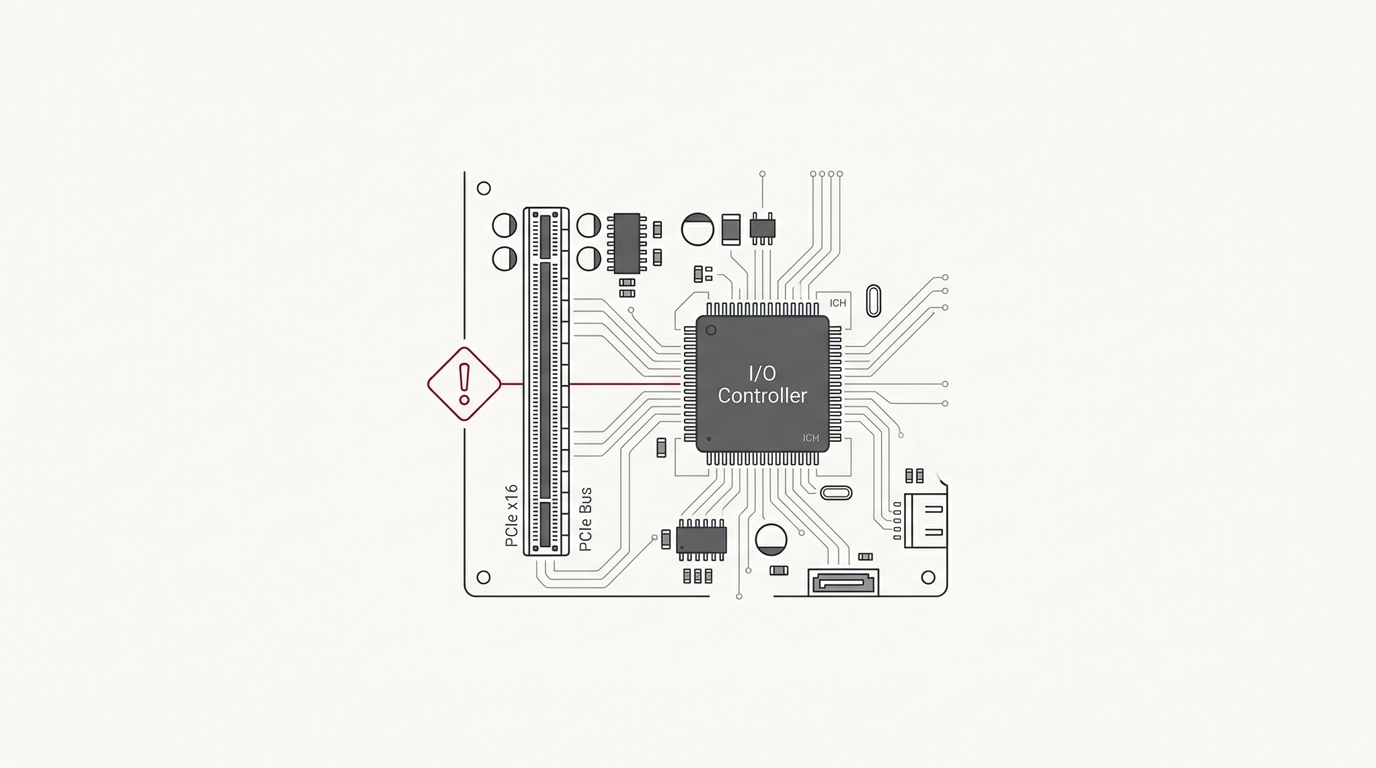
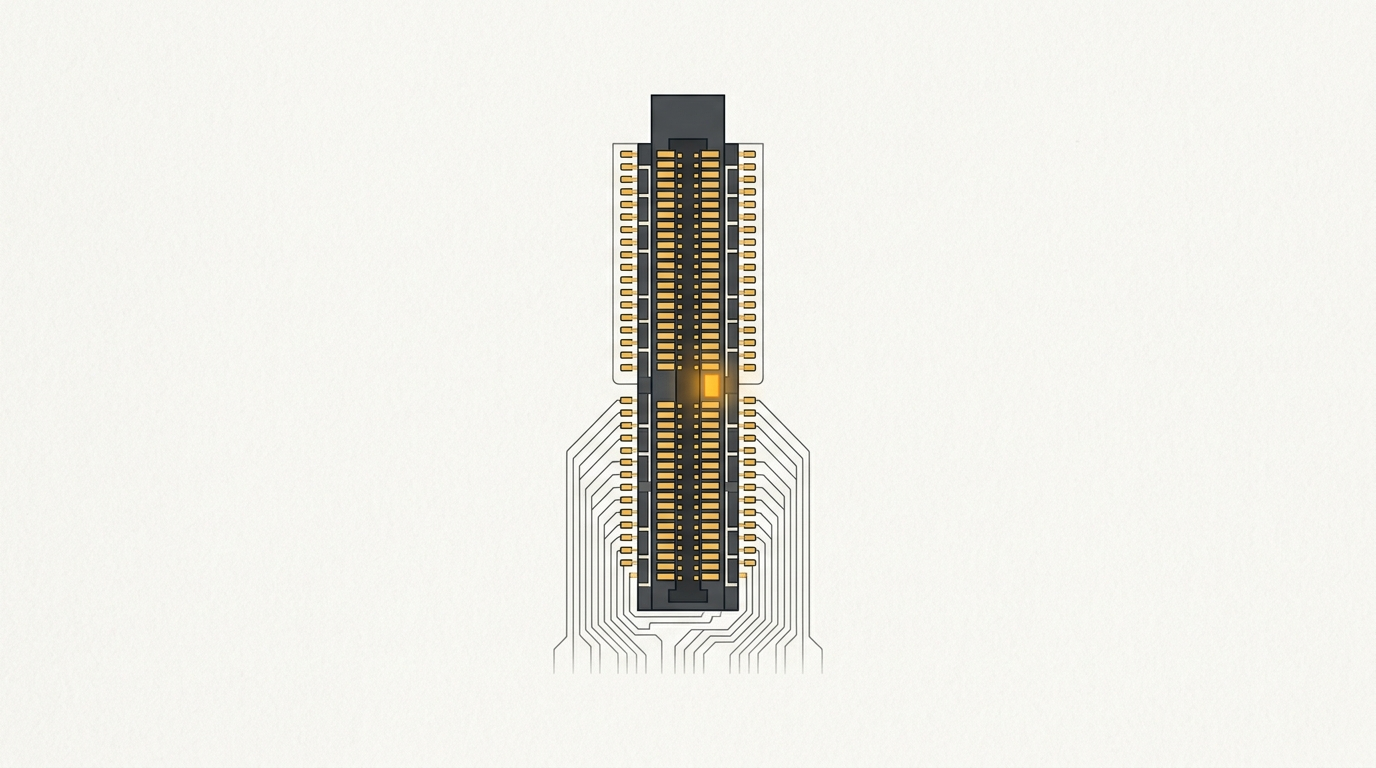
feat(seo): deploy cycle 7 KB5121003 inpoutx64 CTR optimization

Changed region(s): [[0.3125, 0.125, 0.6875, 0.875], [0.5938, 0.2188, 0.625, 0.3438]]

diff --git a/docs/antigravity/gsc_fresh_impact_alerts.md b/docs/antigravity/gsc_fresh_impact_alerts.md
@@ -1,6 +1,6 @@
 # 📈 Real-Time & Fresh GSC Click Impact Watchdog
 
-**Audit Timestamp:** `2026-09-13T02:02:07.819694+00:00`  
+**Audit Timestamp:** `2026-09-13T04:02:11.158871+00:00`  
 **Data State:** `all` (Real-Time Fresh + Finalized)  
 **Monitored Window:** 3-Day Rolling Window (`2026-09-11` to `2026-09-13` vs `2026-09-08` to `2026-09-10`)
 
@@ -10,9 +10,9 @@
 
 | Metric | 2026-09-11 (Prior) | 2026-09-12 (Latest) | Day Delta | Status |
 | :--- | :---: | :---: | :---: | :---: |
-| **Daily Clicks** | **33** | **20** | **-13** | 🔴 |
-| **Daily Impressions** | **5,357** | **2,035** | **-3322** | 🔴 |
-| **Daily CTR** | **0.62%** | **0.98%** | **+0.36%** | 🟢 |
+| **Daily Clicks** | **33** | **23** | **-10** | 🔴 |
+| **Daily Impressions** | **5,357** | **2,269** | **-3088** | 🔴 |
+| **Daily CTR** | **0.62%** | **1.01%** | **+0.39%** | 🟢 |
 | **Avg Position** | **6.7** | **6.5** | **+0.2** | 🟢 |
 
 ---
@@ -22,14 +22,14 @@
 
 | Article URL | 3d Clicks | 3d Imp | 3d CTR | Pos | Status |
 | :--- | :---: | :---: | :---: | :---: | :---: |
-| [`/blog/does-resetting-windows-remove-viruses-completely`](https://www.praveentechworld.com/blog/does-resetting-windows-remove-viruses-completely) | **0** (-11) | 718 | 0% | 5.5 | 🔴 Click Drop |
-| [`/blog/fix-dism-0x800f0915-efi-system-partition-too-small`](https://www.praveentechworld.com/blog/fix-dism-0x800f0915-efi-system-partition-too-small) | **2** (+2) | 120 | 1.67% | 6.9 | 🟢 Active & Gaining |
-| [`/blog/how-to-fix-audiodg-exe-high-cpu-windows-11`](https://www.praveentechworld.com/blog/how-to-fix-audiodg-exe-high-cpu-windows-11) | **1** (+0) | 116 | 0.86% | 7.5 | 🟡 Stable |
+| [`/blog/does-resetting-windows-remove-viruses-completely`](https://www.praveentechworld.com/blog/does-resetting-windows-remove-viruses-completely) | **0** (-11) | 758 | 0% | 5.5 | 🔴 Click Drop |
+| [`/blog/fix-dism-0x800f0915-efi-system-partition-too-small`](https://www.praveentechworld.com/blog/fix-dism-0x800f0915-efi-system-partition-too-small) | **2** (+2) | 122 | 1.64% | 6.9 | 🟢 Active & Gaining |
+| [`/blog/how-to-fix-audiodg-exe-high-cpu-windows-11`](https://www.praveentechworld.com/blog/how-to-fix-audiodg-exe-high-cpu-windows-11) | **1** (+0) | 119 | 0.84% | 7.6 | 🟡 Stable |
 | [`/blog/how-to-fix-ollama-cuda-out-of-memory-oom-errors-nvidia-rtx-gpus`](https://www.praveentechworld.com/blog/how-to-fix-ollama-cuda-out-of-memory-oom-errors-nvidia-rtx-gpus) | **0** (+0) | 0 | 0.0% | 0.0 | ⏳ Indexing / Fresh Lag |
-| [`/blog/how-to-fix-windows-11-kb5121003-inpoutx64-crash`](https://www.praveentechworld.com/blog/how-to-fix-windows-11-kb5121003-inpoutx64-crash) | **3** (+0) | 298 | 1.01% | 5.9 | 🟡 Stable |
-| [`/blog/windows-11-bluetooth-disappeared-not-working-fixes`](https://www.praveentechworld.com/blog/windows-11-bluetooth-disappeared-not-working-fixes) | **2** (-4) | 418 | 0.48% | 5.6 | 🔴 Click Drop |
-| [`/blog/windows-11-volume-control-not-working-8-proven-fixes-for-2026`](https://www.praveentechworld.com/blog/windows-11-volume-control-not-working-8-proven-fixes-for-2026) | **4** (-6) | 598 | 0.67% | 4.2 | 🔴 Click Drop |
-| [`/blog/wsl2-internet-not-working-windows-11-dns-vpn-fixes`](https://www.praveentechworld.com/blog/wsl2-internet-not-working-windows-11-dns-vpn-fixes) | **0** (-8) | 178 | 0% | 7.0 | 🔴 Click Drop |
+| [`/blog/how-to-fix-windows-11-kb5121003-inpoutx64-crash`](https://www.praveentechworld.com/blog/how-to-fix-windows-11-kb5121003-inpoutx64-crash) | **3** (+0) | 307 | 0.98% | 5.9 | 🟡 Stable |
+| [`/blog/windows-11-bluetooth-disappeared-not-working-fixes`](https://www.praveentechworld.com/blog/windows-11-bluetooth-disappeared-not-working-fixes) | **2** (-4) | 430 | 0.47% | 5.6 | 🔴 Click Drop |
+| [`/blog/windows-11-volume-control-not-working-8-proven-fixes-for-2026`](https://www.praveentechworld.com/blog/windows-11-volume-control-not-working-8-proven-fixes-for-2026) | **4** (-6) | 619 | 0.65% | 4.2 | 🔴 Click Drop |
+| [`/blog/wsl2-internet-not-working-windows-11-dns-vpn-fixes`](https://www.praveentechworld.com/blog/wsl2-internet-not-working-windows-11-dns-vpn-fixes) | **0** (-8) | 186 | 0% | 6.9 | 🔴 Click Drop |
 
 ---
 
@@ -38,16 +38,16 @@
 
 | Page URL | Current Clicks | Prior Clicks | Drop | Current Imp | Avg Pos |
 | :--- | :---: | :---: | :---: | :---: | :---: |
-| [`/blog/does-resetting-windows-remove-viruses-completely`](https://www.praveentechworld.com/blog/does-resetting-windows-remove-viruses-completely) | 0 | 11 | **-11** | 718 | 5.5 |
-| [`/blog/wsl2-internet-not-working-windows-11-dns-vpn-fixes`](https://www.praveentechworld.com/blog/wsl2-internet-not-working-windows-11-dns-vpn-fixes) | 0 | 8 | **-8** | 178 | 7.0 |
-| [`/blog/windows-11-volume-control-not-working-8-proven-fixes-for-2026`](https://www.praveentechworld.com/blog/windows-11-volume-control-not-working-8-proven-fixes-for-2026) | 4 | 10 | **-6** | 598 | 4.2 |
-| [`/blog/how-to-fix-nvlddmkm-event-id-153-gpu-crashes`](https://www.praveentechworld.com/blog/how-to-fix-nvlddmkm-event-id-153-gpu-crashes) | 4 | 8 | **-4** | 288 | 5.6 |
-| [`/blog/windows-11-bluetooth-disappeared-not-working-fixes`](https://www.praveentechworld.com/blog/windows-11-bluetooth-disappeared-not-working-fixes) | 2 | 6 | **-4** | 418 | 5.6 |
-| [`/blog/best-free-ai-image-generators-better-than-chatgpt-and-gemini`](https://www.praveentechworld.com/blog/best-free-ai-image-generators-better-than-chatgpt-and-gemini) | 0 | 4 | **-4** | 65 | 8.8 |
+| [`/blog/does-resetting-windows-remove-viruses-completely`](https://www.praveentechworld.com/blog/does-resetting-windows-remove-viruses-completely) | 0 | 11 | **-11** | 758 | 5.5 |
+| [`/blog/wsl2-internet-not-working-windows-11-dns-vpn-fixes`](https://www.praveentechworld.com/blog/wsl2-internet-not-working-windows-11-dns-vpn-fixes) | 0 | 8 | **-8** | 186 | 6.9 |
+| [`/blog/windows-11-volume-control-not-working-8-proven-fixes-for-2026`](https://www.praveentechworld.com/blog/windows-11-volume-control-not-working-8-proven-fixes-for-2026) | 4 | 10 | **-6** | 619 | 4.2 |
+| [`/blog/how-to-fix-nvlddmkm-event-id-153-gpu-crashes`](https://www.praveentechworld.com/blog/how-to-fix-nvlddmkm-event-id-153-gpu-crashes) | 4 | 8 | **-4** | 298 | 5.7 |
+| [`/blog/windows-11-bluetooth-disappeared-not-working-fixes`](https://www.praveentechworld.com/blog/windows-11-bluetooth-disappeared-not-working-fixes) | 2 | 6 | **-4** | 430 | 5.6 |
+| [`/blog/best-free-ai-image-generators-better-than-chatgpt-and-gemini`](https://www.praveentechworld.com/blog/best-free-ai-image-generators-better-than-chatgpt-and-gemini) | 0 | 4 | **-4** | 69 | 9.6 |
 | [`/blog/why-windows-11-24h2-stutters-in-games-core-parking-fix`](https://www.praveentechworld.com/blog/why-windows-11-24h2-stutters-in-games-core-parking-fix) | 1 | 4 | **-3** | 79 | 5.5 |
 | [`/blog/best-truly-free-ai-coding-assistants-in-2026`](https://www.praveentechworld.com/blog/best-truly-free-ai-coding-assistants-in-2026) | 0 | 3 | **-3** | 30 | 7.4 |
-| [`/blog/ollama-vs-vllm-vs-lm-studio-windows-11-wsl2-benchmark`](https://www.praveentechworld.com/blog/ollama-vs-vllm-vs-lm-studio-windows-11-wsl2-benchmark) | 1 | 2 | **-1** | 13 | 8.4 |
-| [`/blog`](https://www.praveentechworld.com/blog) | 0 | 1 | **-1** | 141 | 8.4 |
+| [`/blog/ollama-vs-vllm-vs-lm-studio-windows-11-wsl2-benchmark`](https://www.praveentechworld.com/blog/ollama-vs-vllm-vs-lm-studio-windows-11-wsl2-benchmark) | 1 | 2 | **-1** | 14 | 8.5 |
+| [`/blog`](https://www.praveentechworld.com/blog) | 0 | 1 | **-1** | 149 | 8.3 |
 
 ---
 
@@ -56,13 +56,13 @@
 
 | Page URL | Current Clicks | Prior Clicks | Gain | Current Imp | Avg Pos |
 | :--- | :---: | :---: | :---: | :---: | :---: |
-| [`/blog/windows-11-25h2-upgrade-features-kb5124008-fix`](https://www.praveentechworld.com/blog/windows-11-25h2-upgrade-features-kb5124008-fix) | 16 | 3 | **+13** | 714 | 7.8 |
-| [`/blog/amd-strix-halo-local-llm-128gb-unified-memory-benchmarks`](https://www.praveentechworld.com/blog/amd-strix-halo-local-llm-128gb-unified-memory-benchmarks) | 4 | 1 | **+3** | 99 | 5.6 |
-| [`/blog/fix-deepseek-r1-tool-calling-ollama-thinking-budget`](https://www.praveentechworld.com/blog/fix-deepseek-r1-tool-calling-ollama-thinking-budget) | 3 | 0 | **+3** | 147 | 6.7 |
-| [`/blog/windows-11-26h2-update-features-enablement-package-guide`](https://www.praveentechworld.com/blog/windows-11-26h2-update-features-enablement-package-guide) | 3 | 0 | **+3** | 119 | 7.8 |
-| [`/blog/android-17-battery-drain-overheating-fix-pixel-guide`](https://www.praveentechworld.com/blog/android-17-battery-drain-overheating-fix-pixel-guide) | 3 | 1 | **+2** | 84 | 6.4 |
-| [`/blog/fix-dism-0x800f0915-efi-system-partition-too-small`](https://www.praveentechworld.com/blog/fix-dism-0x800f0915-efi-system-partition-too-small) | 2 | 0 | **+2** | 120 | 6.9 |
-| [`/blog/why-windows-11-24h2-bsods-on-wd-nvme-hmb-fix`](https://www.praveentechworld.com/blog/why-windows-11-24h2-bsods-on-wd-nvme-hmb-fix) | 2 | 0 | **+2** | 88 | 3.6 |
+| [`/blog/windows-11-25h2-upgrade-features-kb5124008-fix`](https://www.praveentechworld.com/blog/windows-11-25h2-upgrade-features-kb5124008-fix) | 17 | 3 | **+14** | 730 | 7.7 |
+| [`/blog/amd-strix-halo-local-llm-128gb-unified-memory-benchmarks`](https://www.praveentechworld.com/blog/amd-strix-halo-local-llm-128gb-unified-memory-benchmarks) | 4 | 1 | **+3** | 103 | 5.7 |
+| [`/blog/fix-deepseek-r1-tool-calling-ollama-thinking-budget`](https://www.praveentechworld.com/blog/fix-deepseek-r1-tool-calling-ollama-thinking-budget) | 3 | 0 | **+3** | 156 | 6.8 |
+| [`/blog/windows-11-26h2-update-features-enablement-package-guide`](https://www.praveentechworld.com/blog/windows-11-26h2-update-features-enablement-package-guide) | 3 | 0 | **+3** | 120 | 7.8 |
+| [`/blog/android-17-battery-drain-overheating-fix-pixel-guide`](https://www.praveentechworld.com/blog/android-17-battery-drain-overheating-fix-pixel-guide) | 3 | 1 | **+2** | 88 | 6.4 |
+| [`/blog/fix-dism-0x800f0915-efi-system-partition-too-small`](https://www.praveentechworld.com/blog/fix-dism-0x800f0915-efi-system-partition-too-small) | 2 | 0 | **+2** | 122 | 6.9 |
+| [`/blog/why-windows-11-24h2-bsods-on-wd-nvme-hmb-fix`](https://www.praveentechworld.com/blog/why-windows-11-24h2-bsods-on-wd-nvme-hmb-fix) | 2 | 0 | **+2** | 90 | 3.6 |
 | [`/blog/how-to-fix-clock-watchdog-timeout-0x101-blue-screen-error-windows-11`](https://www.praveentechworld.com/blog/how-to-fix-clock-watchdog-timeout-0x101-blue-screen-error-windows-11) | 1 | 0 | **+1** | 1 | 3 |
-| [`/blog/how-to-fix-whea-uncorrectable-error-0x124-windows-11`](https://www.praveentechworld.com/blog/how-to-fix-whea-uncorrectable-error-0x124-windows-11) | 1 | 0 | **+1** | 82 | 7.5 |
+| [`/blog/how-to-fix-whea-uncorrectable-error-0x124-windows-11`](https://www.praveentechworld.com/blog/how-to-fix-whea-uncorrectable-error-0x124-windows-11) | 1 | 0 | **+1** | 85 | 7.4 |
 | [`/blog/why-wsl2-vmmem-wont-free-ram-auto-memory-reclaim-fix`](https://www.praveentechworld.com/blog/why-wsl2-vmmem-wont-free-ram-auto-memory-reclaim-fix) | 1 | 0 | **+1** | 171 | 7.0 |

diff --git a/research/vault/Social-Hooks/how-to-fix-windows-11-kb5121003-inpoutx64-crash-social.md b/research/vault/Social-Hooks/how-to-fix-windows-11-kb5121003-inpoutx64-crash-social.md
@@ -1,0 +1,53 @@
+# Social Syndication Hooks: Fix KB5121003 & Inpoutx64 Game Crashes on Windows 11
+
+**Article URL:** https://www.praveentechworld.com/blog/how-to-fix-windows-11-kb5121003-inpoutx64-crash  
+**Primary Keywords:** `inpoutx64`, `kb5121003`, `5121003`, `inpoutx64.sys`, `windows 11 game crash`  
+**Author Perspective:** Praveen TechWorld Workbench Team  
+
+---
+
+## 💼 LinkedIn Post Hook
+
+Did your gaming PC start crashing to desktop or throwing `EXCEPTION_ACCESS_VIOLATION (0xC0000005)` right after installing Windows 11 update KB5121003?
+
+When games like *THE FINALS* or *ARC Raiders* started crashing on our test rigs within 3 minutes of launching, our hardware lab pulled the minidumps.
+
+The root cause wasn't an unstable GPU overclock or corrupted game shaders. 
+
+It was `inpoutx64.sys`—a decades-old parallel port / direct hardware I/O driver quietly bundled into OEM motherboard and RGB lighting utilities (such as Gigabyte RGB Fusion, ASUS Armoury Crate plugins, and older OpenRGB builds).
+
+Under Windows 11 KB5121003, Microsoft hardened Hypervisor-Protected Code Integrity (HVCI). When legacy RGB software tries using `inpoutx64` to make unauthorized Ring 0 physical memory and port calls to flash RAM LEDs, the Windows kernel traps the violation and kills the game process.
+
+Microsoft documented a 100% reversible registry workaround that stops the crashes without rolling back your OS security update:
+
+1. Press `Win + R`, type `regedit`, and press Enter.
+2. Navigate to: `HKLM\SYSTEM\CurrentControlSet\Services\inpoutx64`
+3. Change the `Start` DWORD value from `2` or `3` to `4` (Disabled).
+4. Restart your PC.
+
+The legacy helper driver is blocked from loading, games run flawlessly without crashes, and you can reverse the value to `3` anytime once your vendor releases a WHQL-signed update.
+
+We've documented our complete 3-rig stability benchmark, diagnostic decision tree, and one-click PowerShell recovery script:
+
+👉 Full workbench teardown: https://www.praveentechworld.com/blog/how-to-fix-windows-11-kb5121003-inpoutx64-crash
+
+#Windows11 #SysAdmin #DevOps #PCGaming #HardwareTroubleshooting #CyberSecurity #TechTips
+
+---
+
+## 🐦 X (Twitter) Thread Hook
+
+Games crashing with 0xC0000005 right after Windows 11 update KB5121003? 🧵👇
+
+1/ It’s not your GPU. It’s `inpoutx64.sys`—a legacy I/O driver bundled into RGB lighting utilities that triggers a kernel HVCI violation under KB5121003.
+
+2/ Microsoft's confirmed reversible fix:
+- Open `regedit`
+- Go to `HKLM\SYSTEM\CurrentControlSet\Services\inpoutx64`
+- Set `Start` DWORD to `4` (Disabled)
+- Reboot
+
+3/ Your RGB lights stay on default hardware profiles, but game crashes stop immediately. No need to uninstall the security update!
+
+4/ Full 3-rig stress test + one-click PowerShell script:
+https://www.praveentechworld.com/blog/how-to-fix-windows-11-kb5121003-inpoutx64-crash
